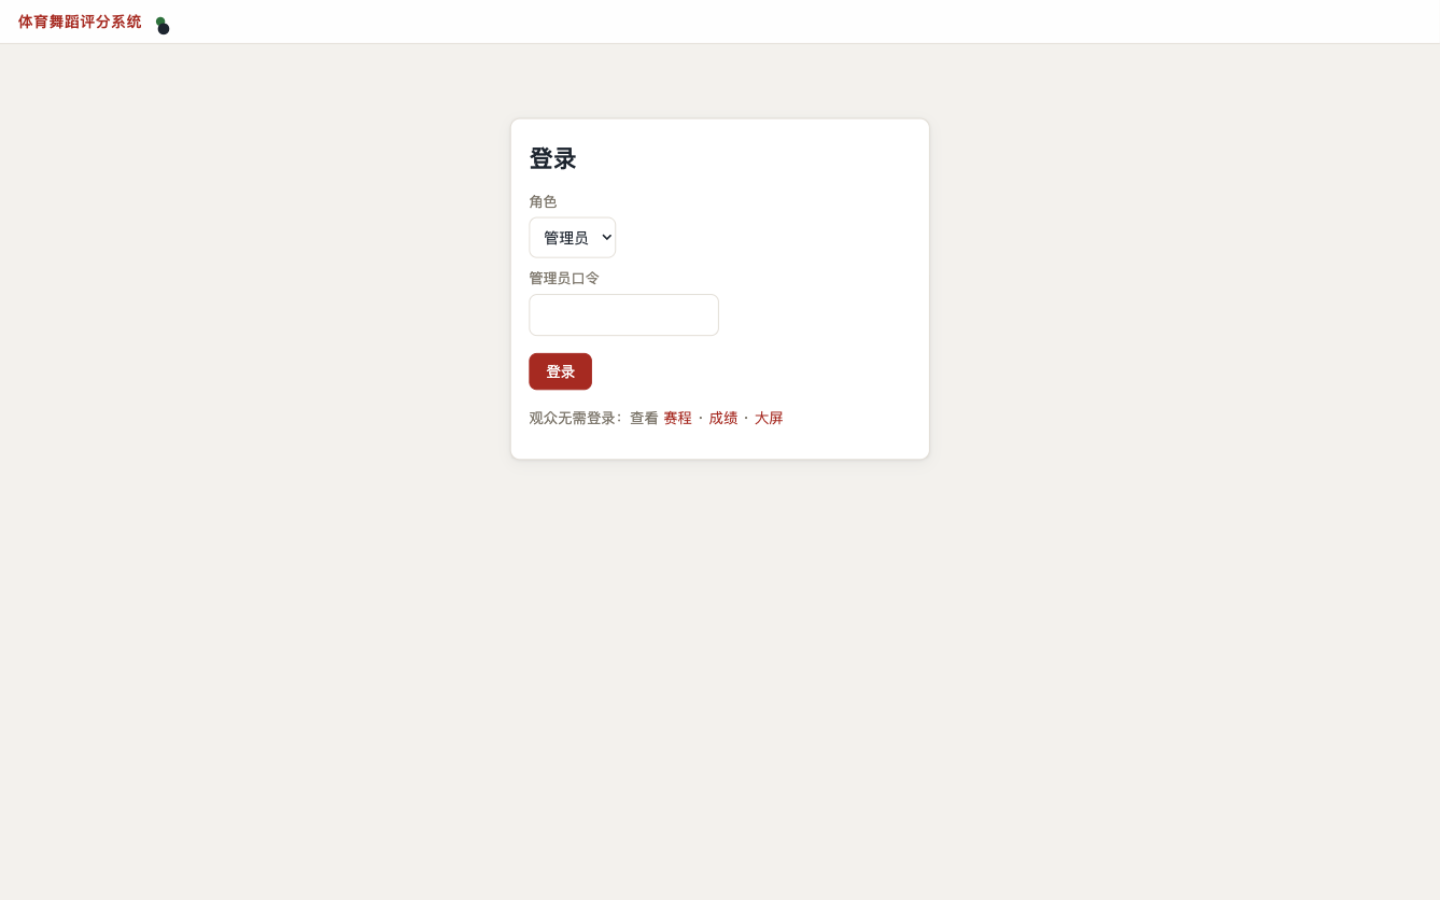
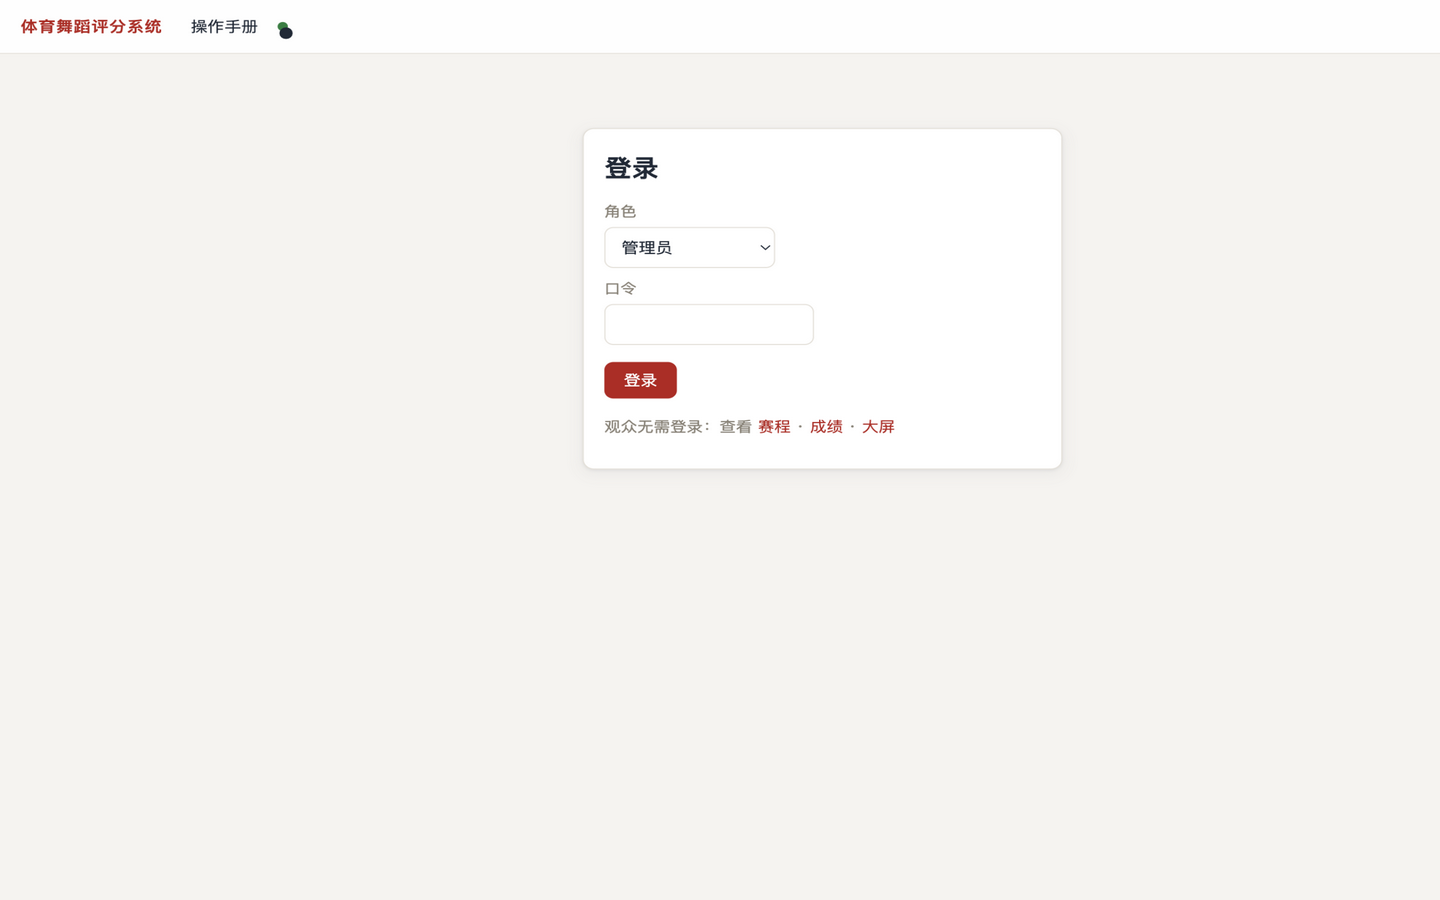
手册v1.1：五角色动线（含检录/主持台章节）+ 登录/查询/staff 最新截图；公网重部署验证

Changed region(s): [[0.3438, 0.3733, 0.6562, 0.5289], [0.3438, 0.1556, 0.4688, 0.3422], [0.0, 0.0, 0.2188, 0.0622]]

diff --git a/server/templates/manual.html b/server/templates/manual.html
@@ -3,8 +3,9 @@
 {% block nav %}<a href="/">首页</a>{% endblock %}
 {% block content %}
 <h1>操作手册 · 赛事完整周期动线</h1>
-<p class="muted">本手册基于 R21 全栈 E2E 验证（docs/E2E-STANDARD.md，36 检查点）编写，所有截图均为正式部署实机图。
-管理员与裁判动线经桌面（1440×900）/移动（375×812）双端验证；移动端动线以移动端截图呈现。</p>
+<p class="muted">本手册基于 R21-R25 全栈 E2E 与 UX 评审迭代编写（docs/E2E-STANDARD.md、docs/UX-REVIEW-R24.md），
+所有截图均为正式部署实机图。覆盖五类角色动线：管理员（桌面 1440×900）、裁判（移动 375×812）、
+检录/主持台（主持人 · 检录长/检录员）、观众（移动）、大屏（1920×1080）。</p>
 
 <div class="manual-lifecycle card">
   <h2>赛事生命周期总览</h2>
@@ -207,8 +208,8 @@
   <img src="/static/manual/r21/s-screen-standings.png" alt="大屏团体总分榜" loading="lazy">
 </div>
 
-<p class="muted" style="margin-top:2rem">手册版本 v1.0 · 2026-09-06 · 基于 commit 059cd9b+ 实机截图 ·
-配合 docs/WALKTHROUGH.md（动线走查）与 docs/E2E-STANDARD.md（验收标准）使用。</p>
+<p class="muted" style="margin-top:2rem">手册版本 v1.1 · 2026-09-07 · 含检录/双角色/双模式打分/防连场/背番号查询 ·
+基于 feat/service-core 实机截图 · 配合 docs/WALKTHROUGH.md（动线走查）与 docs/E2E-STANDARD.md（验收标准）使用。</p>
 {% endblock %}
 {% block scripts %}
 {% endblock %}
